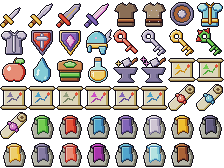
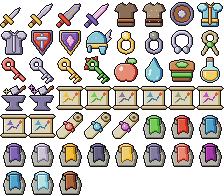
Gear slots: the neck, two rings and a relic
The first new places of the gear rework (design bible 5.6). A trinket is an
icon in the menu with one fixed rule that refresh_stats adds up; a relic
sleeps until the ability it alters is found. Four are sold: the Amber Band,
the Whetstone Ring, the Dewcatch Torc and the Stride Knot. Older saves come
over with the places empty.

diff --git a/tools/art/icongen.py b/tools/art/icongen.py
@@ -266,7 +266,46 @@ def scroll(seal):
     return paint
 
 
+def ring(metal, stone, lit):
+    """A finger ring seen from the front, its stone set on top."""
+    def paint():
+        cv = icon()
+        cv.part(cv.ellipse((7.0, 8.6), 4.2, 4.2) & ~cv.ellipse((7.0, 8.6), 2.7, 2.7), metal)
+        cv.part(cv.ellipse((7.0, 3.9), 2.2, 1.9), stone, deep=True)
+        cv.flat(cv.ellipse((6.4, 3.4), 0.5, 0.5), lit)
+        return cv.finish()[0]
+    return paint
+
+
+def torc():
+    """An open collar, its two ends each a small cup."""
+    cv = icon()
+    metal = mat("stone", 7, 6, 4, 2)
+    band = cv.ellipse((7.0, 6.4), 5.2, 5.0) & ~cv.ellipse((7.0, 6.4), 3.7, 3.5)
+    gap = cv.polygon([(7.0, 6.4), (4.4, 13.6), (9.6, 13.6)])
+    cv.part(band & ~gap, metal)
+    for x in (4.9, 9.1):
+        cv.part(cv.ellipse((x, 10.9), 1.5, 1.5), metal, deep=True)
+        cv.flat(cv.ellipse((x, 10.7), 0.6, 0.5), PAL["sky-6"])
+    return cv.finish()[0]
+
+
+def knot():
+    """A cord tied in a loop, both ends hanging."""
+    cv = icon()
+    cord = mat("ochre", 6, 5, 3, 1)
+    cv.part(cv.ellipse((7.0, 5.0), 3.8, 3.4) & ~cv.ellipse((7.0, 5.0), 2.2, 1.9), cord)
+    cv.part(cv.capsule((6.2, 8.2), (3.6, 12.6), 0.8), cord)
+    cv.part(cv.capsule((7.8, 8.2), (10.4, 12.6), 0.8), cord)
+    cv.part(cv.ellipse((7.0, 8.2), 1.5, 1.3), mat("leaf", 6, 5, 3, 1), deep=True)
+    return cv.finish()[0]
+
+
 BY_ID = {
+    "amber_band": ring(GOLD, mat("gold", 7, 6, 4, 2), PAL["gold-7"]),
+    "whetstone_ring": ring(mat("stone", 6, 5, 3, 1), mat("ash", 5, 4, 3, 1), PAL["ash-6"]),
+    "dewcatch_torc": torc,
+    "stride_knot": knot,
     "short_sword": blade(7.0, 0.9),
     "long_sword": blade(9.6, 0.95, fuller=PAL["stone-5"], guard_len=2.4),
     "dwarvish_broad_sword": blade(10.0, 1.7, steel=mat("stone", 6, 5, 3, 1), guard=mat("ember", 5, 4, 3, 1),

diff --git a/docs/design-bible.md b/docs/design-bible.md
@@ -603,6 +603,8 @@ So a hit costs about a mask from the first root to the Everbloom, and what grows
 
 Signature items (the Climbing Glove, the Featherstep Boots, the Elven Stride, the Delver's Pick and the like) take no slot. They sit in an Abilities section of the menu, always on. Feather Fall (6.10) leaves the skill tree and becomes a cloak.
 
+**Built (2026-11-13): the neck, the two rings and the relic.** `GameState.TRINKET_PLACES` gives each kind its places in `equipment` (`neck`, `ring1`, `ring2`, `relic`); `GEAR_KINDS` is the Equipment page's order. A trinket is an item with one rule field that `refresh_stats` adds up: `melee` (a share more blade damage), `flask` (a share more Sapflask healing), `mp_hit` (a share more mana a blow) or `dash` (a share more of the Elven Stride's time, so of its length). A relic names the ability it alters with `needs` and sleeps until that is found; its row says so. A bought ring goes on the free hand, a third is kept and not worn, and choosing a worn one takes it off. An older save comes over with the places empty, and a thing in the wrong place comes off. The first four, all sold: the Amber Band (ring, flask +10%, Hearthroot Sundries, 600), the Whetstone Ring (ring, blade +5%, Amberlee Provisions, 1,200), the Dewcatch Torc (neck, +25% mana a blow, the Bell-Tower Scriptorium, 1,800) and the Stride Knot (relic, Elven Stride +15%, the Kettleforge Larder, 1,500). `test_trinkets_neck_two_rings_and_a_relic` holds it. Not built yet: the Head slot's circlets (the Elven Helm keeps its `helmet` place until the one body), the cloak, projectile and belt places, and the Abilities section.
+
 **The imbued armor.** The elven king opens an old vault at the start and gives the hero one suit that can be imbued, which is why a sword-and-shield fighter can also cast. It is old and muted, with a small armor value and no other bonus, and it is never replaced. It has one socket at the start; the elven smith adds a second and the dwarven smith a third.
 
 | Gem line | Gives | Tiers | Tint family |
